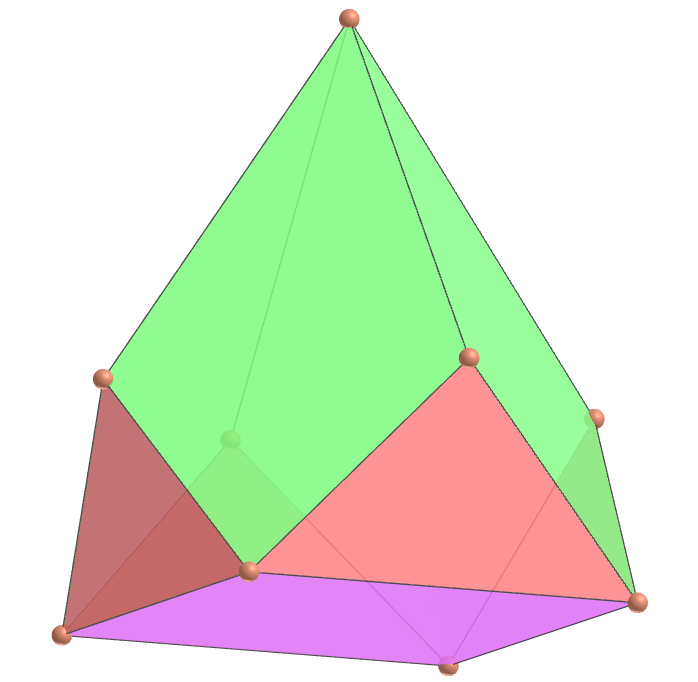
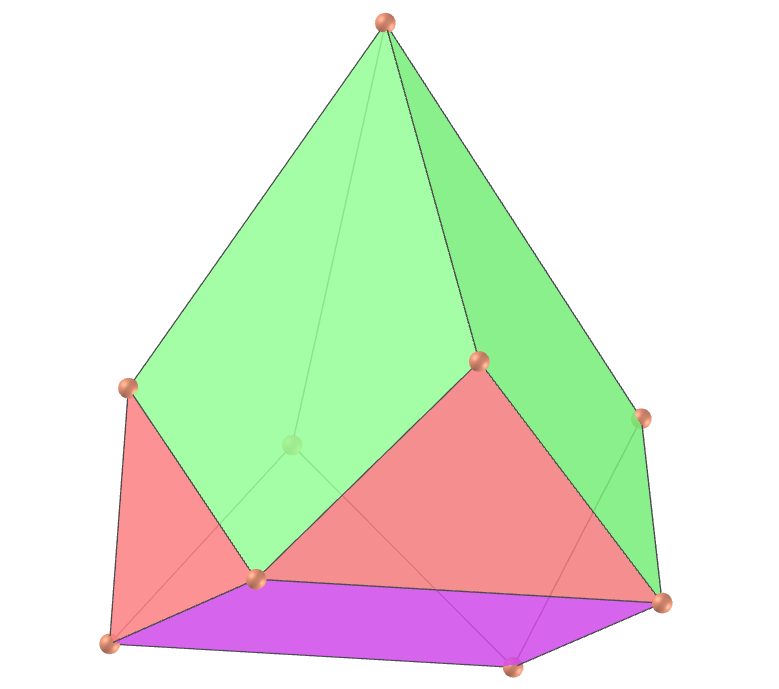
update

diff --git a/polyhedron/vr/herschel_enneahedron.htm b/polyhedron/vr/herschel_enneahedron.htm
@@ -16,7 +16,7 @@
 			<a-mixin id="esfera" geometry="radius: 0.125;" material="metalness:0.4; roughness:0.5;"></a-mixin>
 		</a-assets>
 				
-		<a-entity position="0 0 0" scale="1.1 1.1 1.1">
+		<a-entity position="0 0.8 0" scale="1.1 1.1 1.1">
 			<a-obj-model src="outros/HerschelEnneahedron.obj" mtl="outros/solidos.mtl" scale="0.998 0.998 0.998"></a-obj-model>
 			<a-obj-model src="outros/HerschelEnneahedronL.obj" mtl="outros/solidos.mtl"></a-obj-model>
 			<a-sphere mixin='esfera mtl9' position='1.415 -3.75 2.242'></a-sphere>
